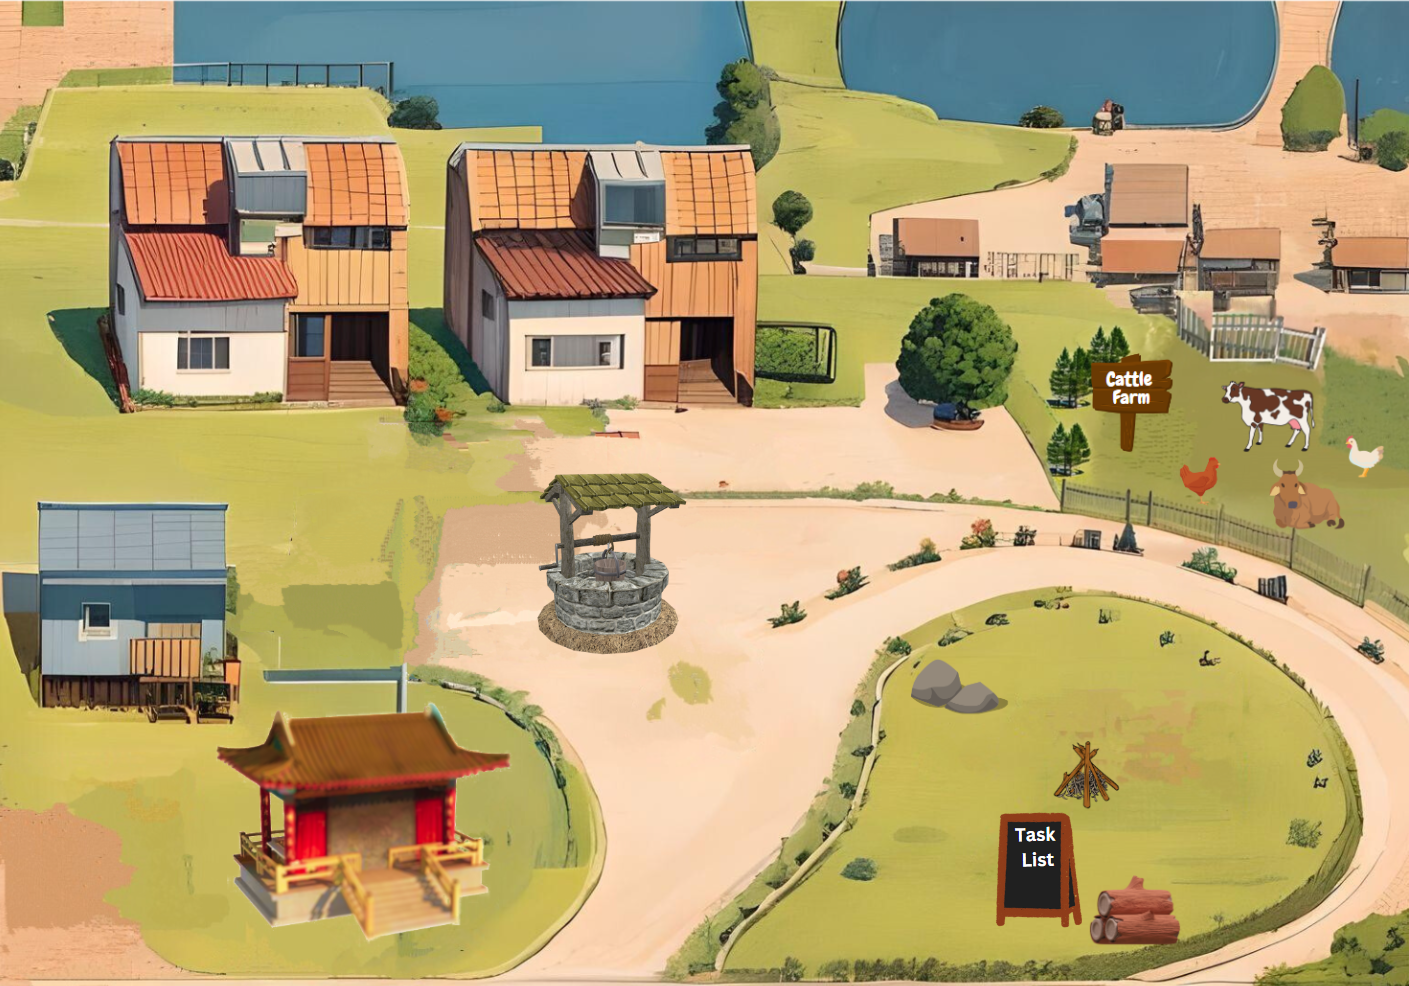
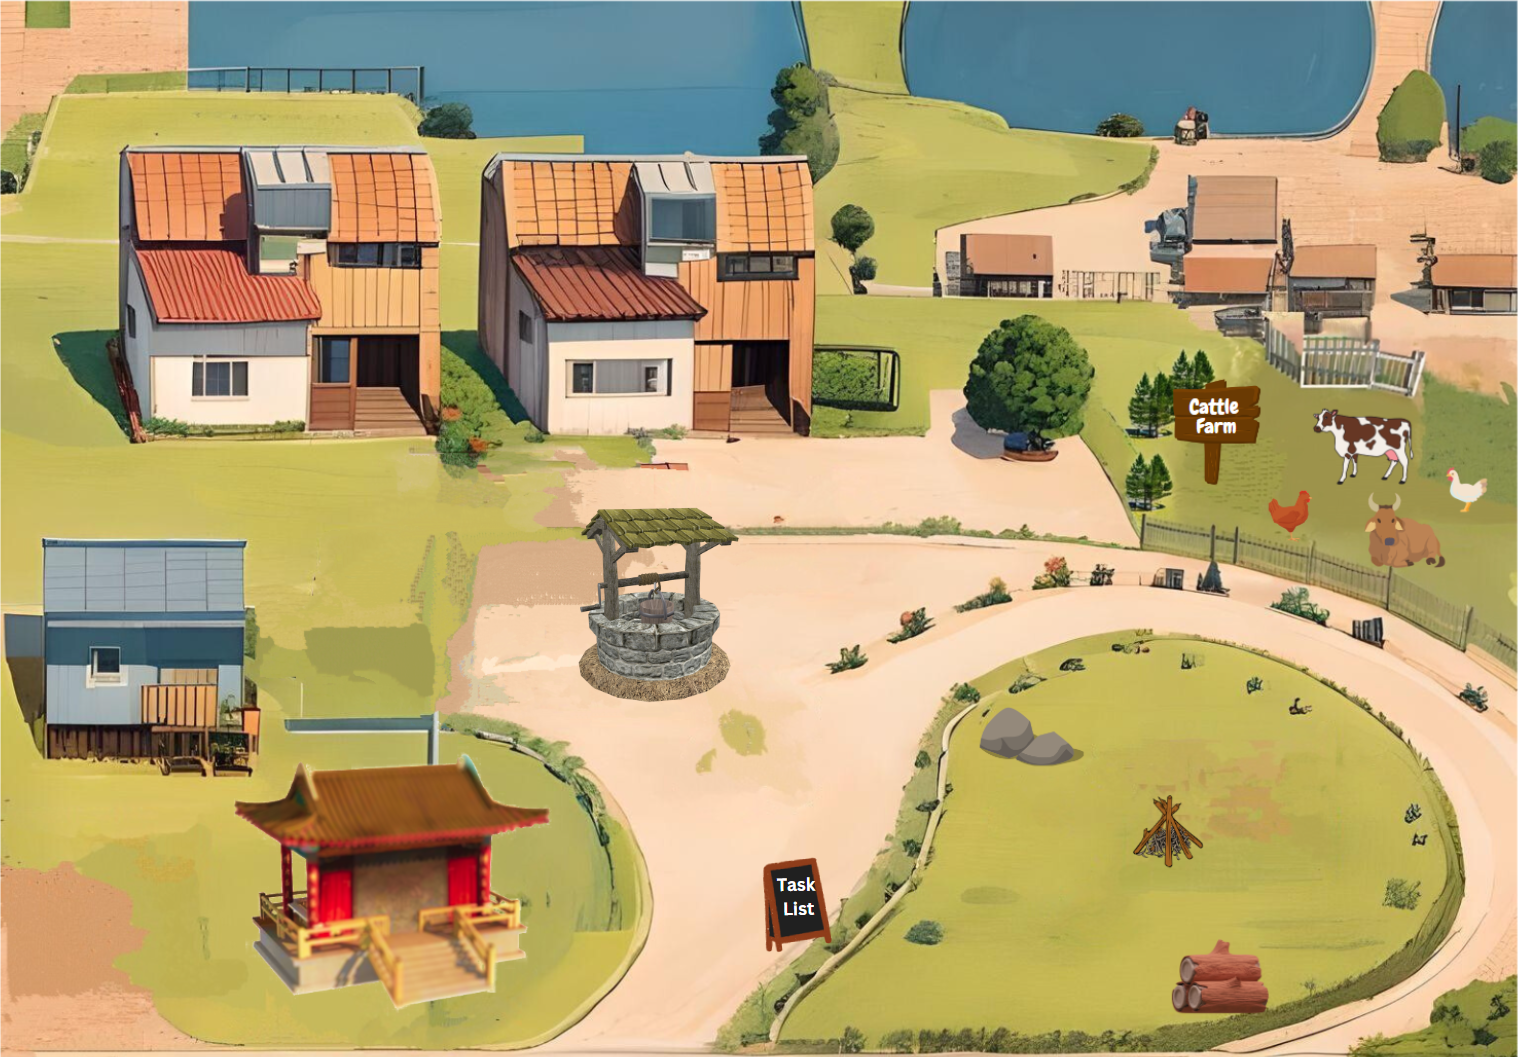
Task Lits fixed

diff --git a/Params.py b/Params.py
@@ -110,6 +110,7 @@ LOCATION_MAP = {'Hut 1': (475, 422), "Hut 1 Main": (135, 376),
                 'Predetermined 01': (1325, 816), 'Predetermined 02': (1389, 737), 'Predetermined 03': (1557, 718), 'Predetermined 04': (1654, 823), 'Predetermined 05': (1589, 947), 'Predetermined 06': (1407, 958), 
                 'Fishing Pond': (1111, 93), 'Fishing Pond task01': (1073, 136), 'Fishing Pond task02': (1238, 145), 'Fishing Pond task03': (1434, 159), 'Fishing Pond task04': (1729, 139), 
                 'Intermediate01': (1101, 834), 'Intermediate02': (853, 834), 'Intermediate03': (662, 742), 'Intermediate04': (479, 488) , 'Intermediate05': (899, 481), 'Intermediate06': (1232, 504), 'Intermediate07': (1118, 251), 'Intermediate08': (475,425), 'Intermediate09': (963,430), 
+                'List':(900, 900)
                 }
 MESSAGES_MAP = ["Hello!","How are you?",'Anata wa kawaii desu','Watashi wa Takeshi Desu','Hajimemashite','Otsukaresama deshita']
 
@@ -244,6 +245,8 @@ nodes = {"Hut 1": "The first hut.",
         #"Intermediate08":"Inbetween Nodes",
         #"Intermediate09":"Inbetween Nodes",
         #"Intermediate10":"Inbetween Nodes",
+        "List": "Agents write their daily activity here"
+
         }
 
 # Boolean to check if the task is completed
@@ -300,6 +303,7 @@ TASK_EMOJI_MAP = {
     # "Hut 2 task02": "Sleeping",
     # "Hut 2 task03": "Sleeping",
     "Hut 2 task04": "Cooking",
+    
 }
 
 
@@ -336,11 +340,11 @@ electricity_house_hover_textbox = HoverTextBox(electricity_house_rect, font, (25
 
 # House 1
 house1_rect = pygame.Rect(187, 156, 250, 200)
-house1_hover_textbox = HoverTextBox(house1_rect, font, (255, 255, 255), (0, 0, 255), 'Hut 1', nodes['Hut 1'], "")
+house1_hover_textbox = HoverTextBox(house1_rect, font, (255, 255, 255), (0, 0, 255), 'Hut 1', nodes['Hut 1'], f"Available Tasks: {nodes['Hut 1 task01']}{nodes['Hut 1 task04']}")
 
 # House 2
 house2_rect = pygame.Rect(662, 167, 250, 200)
-house2_hover_textbox = HoverTextBox(house2_rect, font, (255, 255, 255), (0, 0, 255), 'Hut 2', nodes['Hut 2'], "")
+house2_hover_textbox = HoverTextBox(house2_rect, font, (255, 255, 255), (0, 0, 255), 'Hut 2', nodes['Hut 2'], f"Available Tasks: {nodes['Hut 2 task01']}{nodes['Hut 2 task04']}")
 
 # Fishing Pond
 fishing_pond_rect = pygame.Rect(1000, 50, 400, 60)

diff --git a/Graph.py b/Graph.py
@@ -204,6 +204,7 @@ def makeTown():
     town.addEdge("Hut 2 Main","Hut 2 Intermediate06"),
     town.addEdge("Hut 2 Intermediate07","Hut 2 Intermediate06"),
     town.addEdge("Hut 2 task04","Hut 2 Intermediate07"),
+    town.addEdge("Intermediate02","List"),
     return town
 
 town = makeTown()
